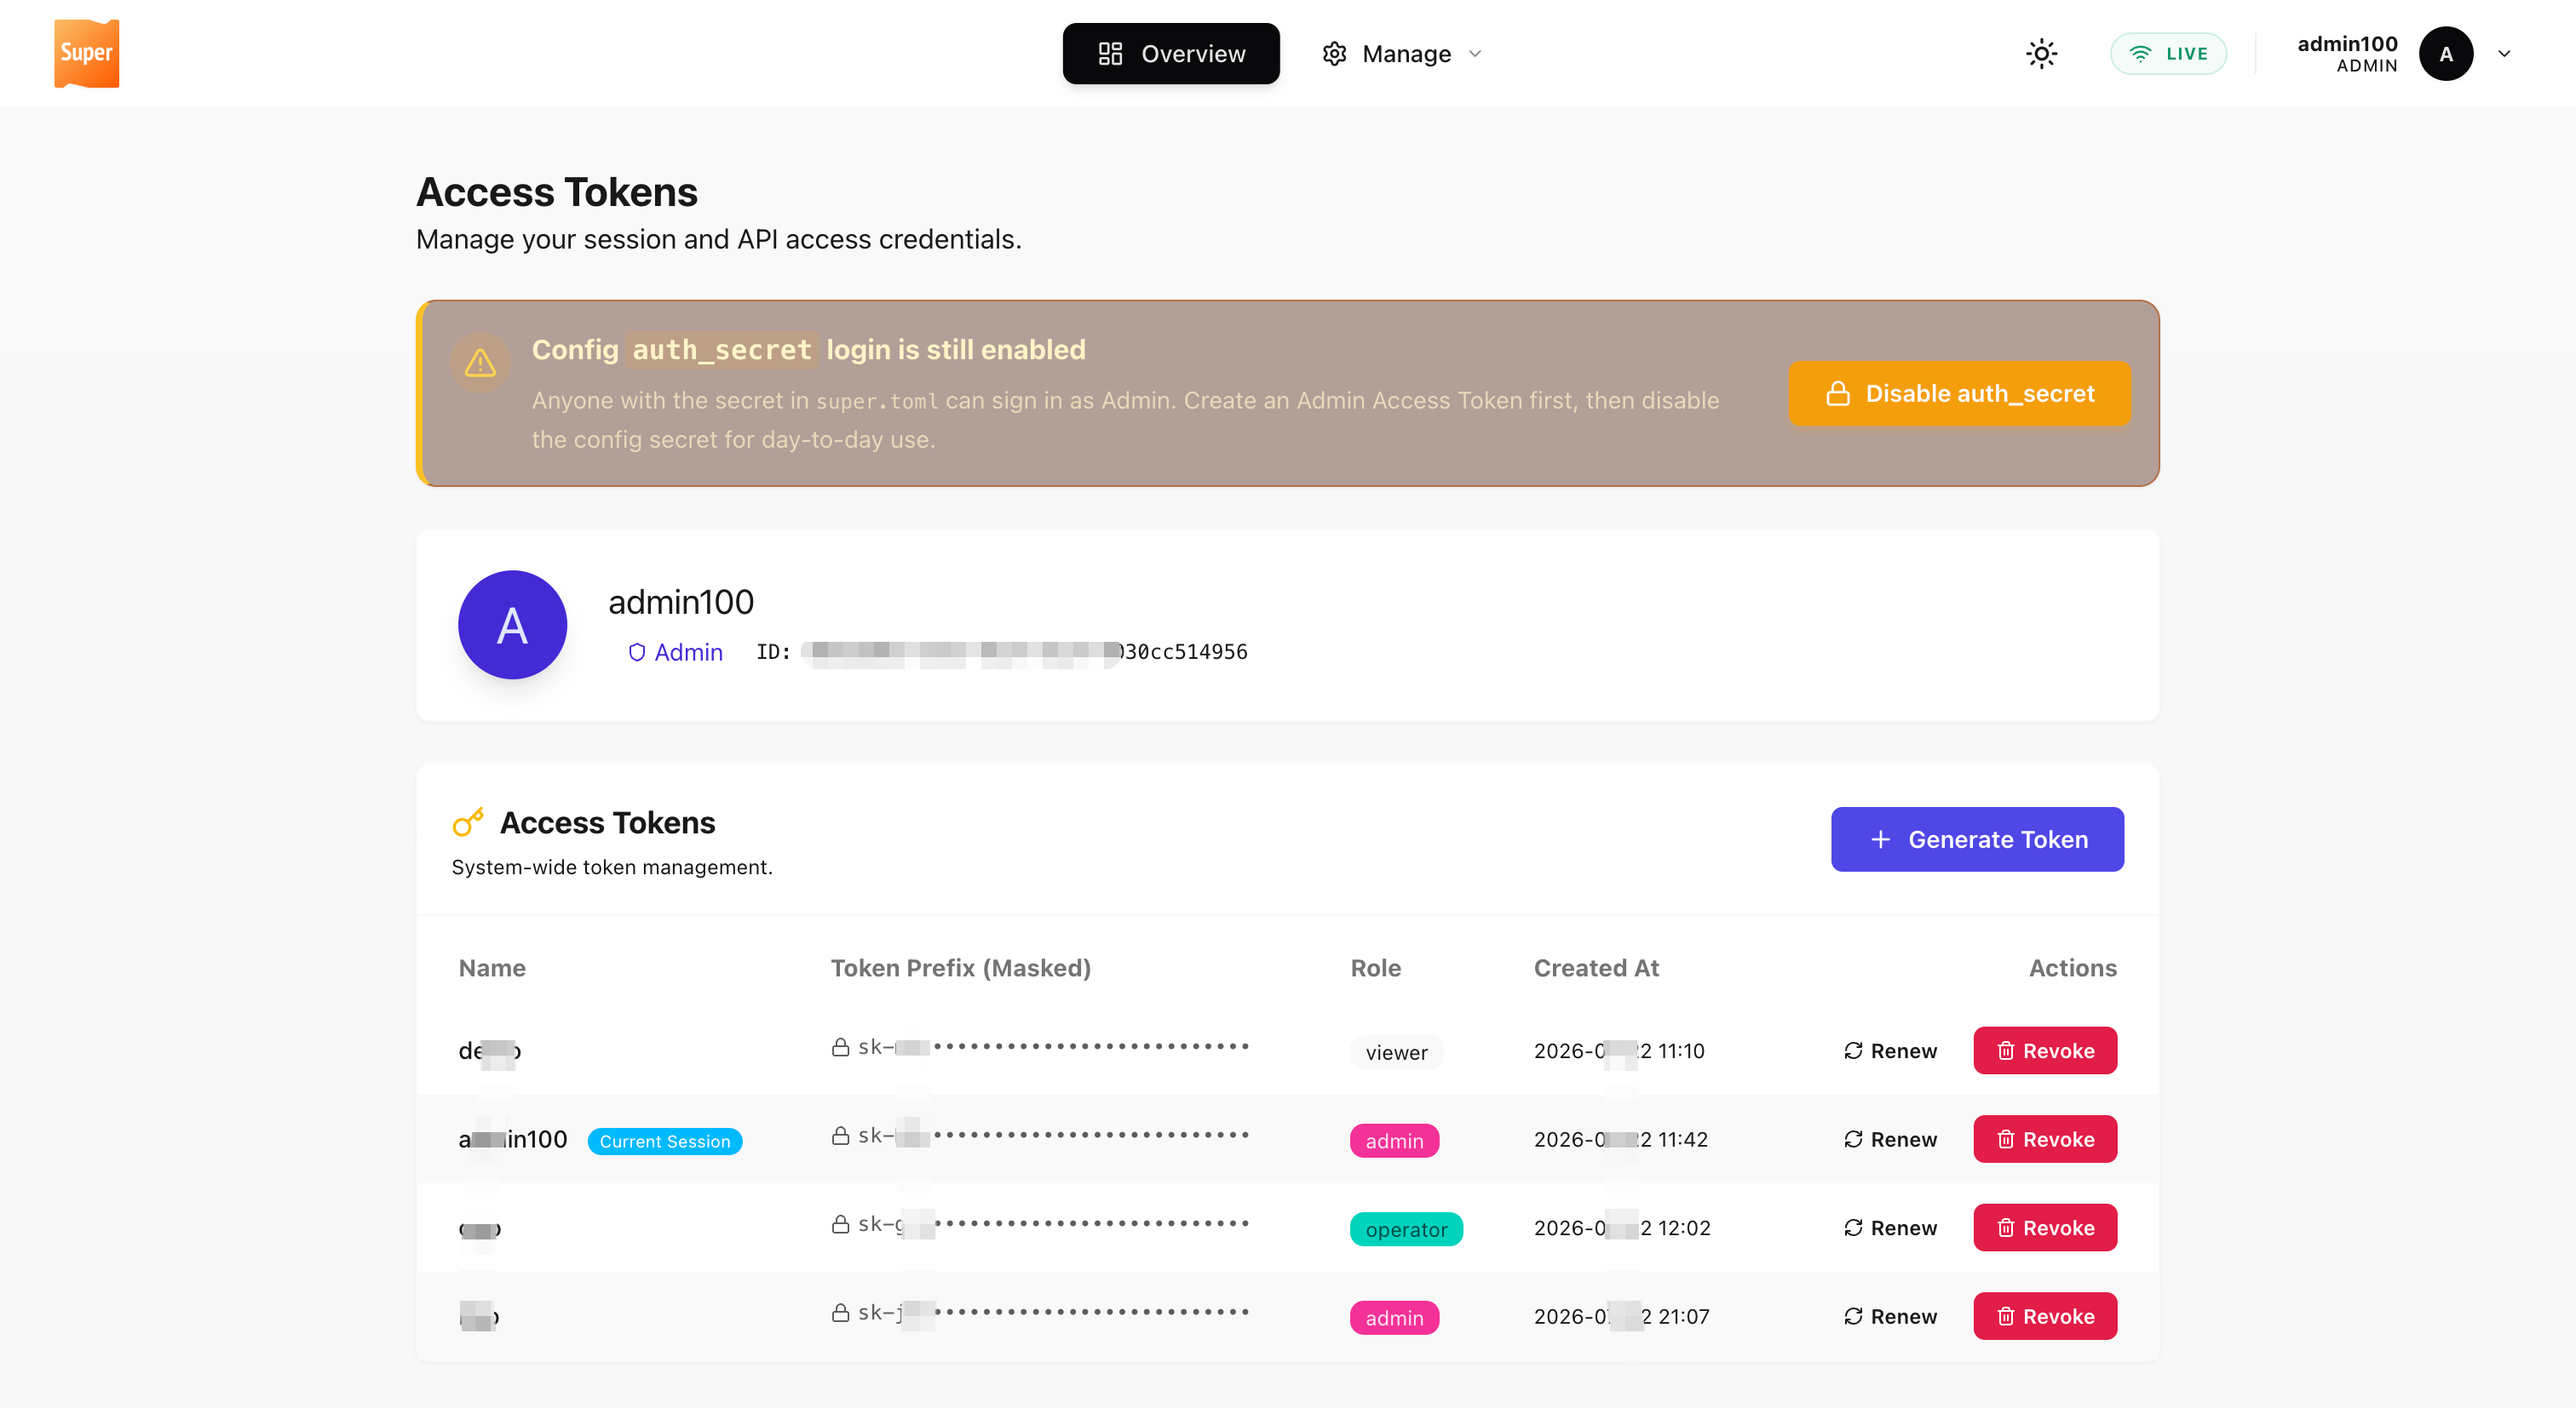
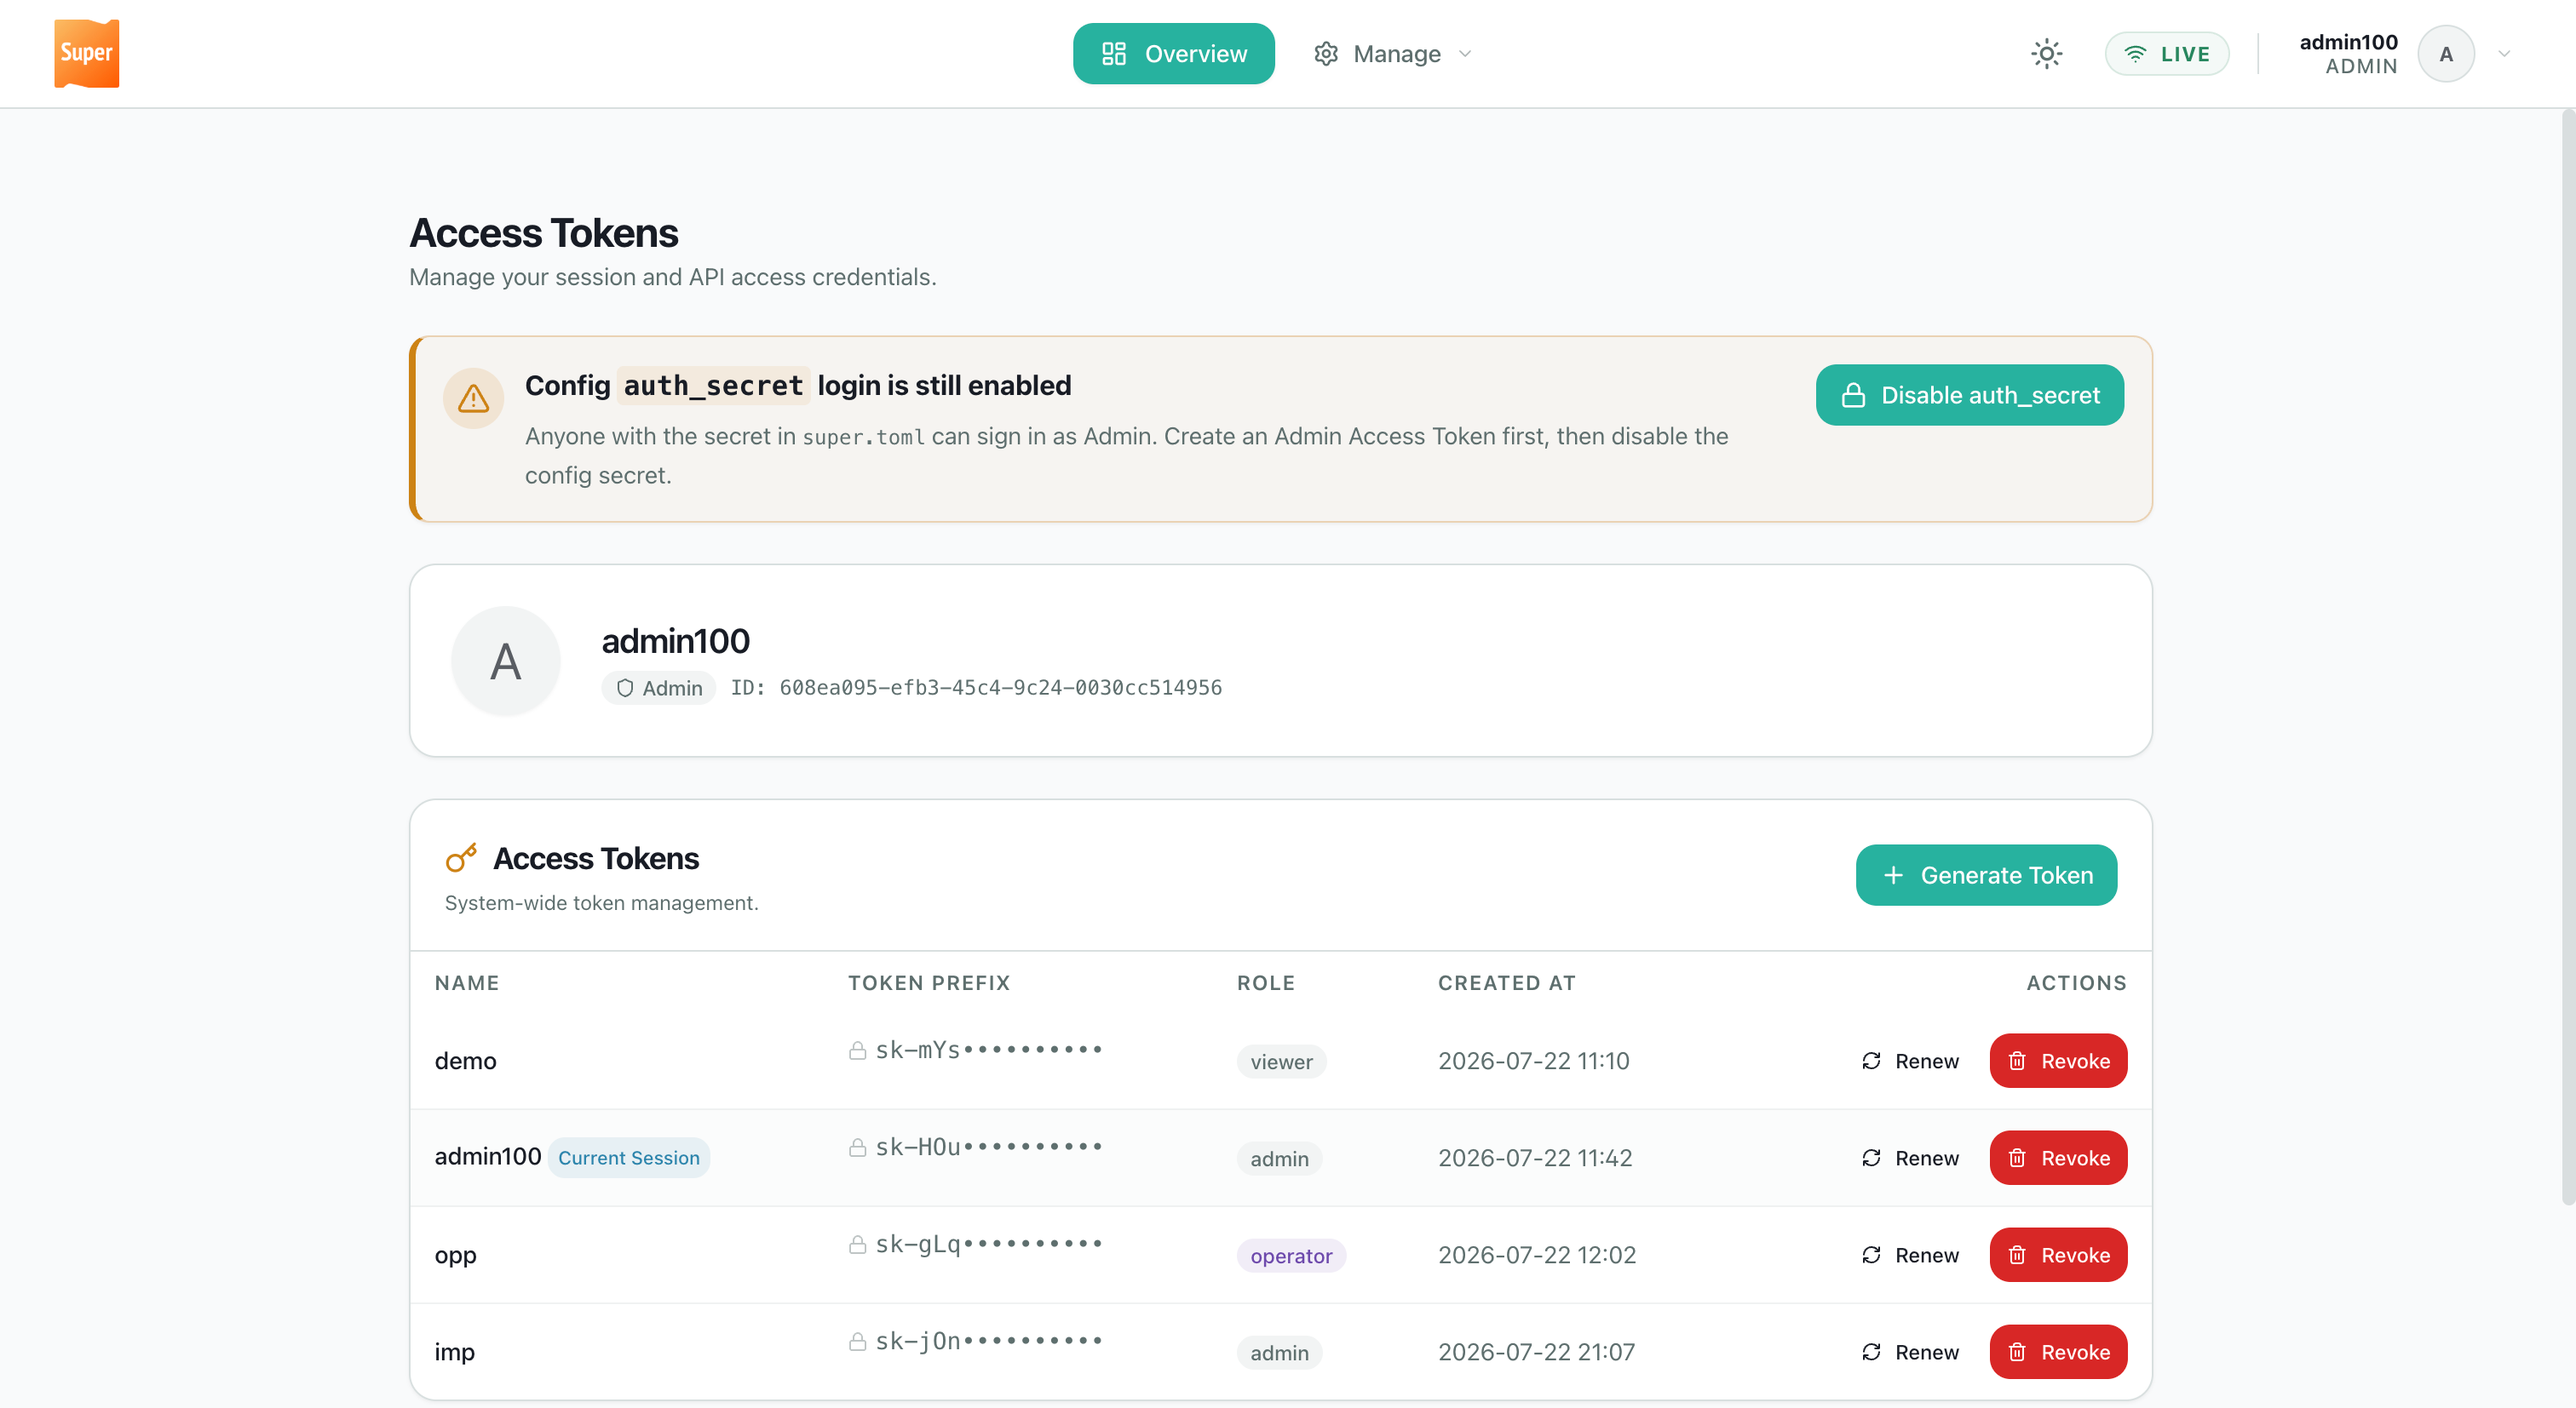
docs(web-ui): refresh dashboard tour screenshots
Align the Web UI page with current static images and document the
refresh under 1.2.3.

diff --git a/docs/content/docs/05-advanced-management/web-ui.md b/docs/content/docs/05-advanced-management/web-ui.md
@@ -33,43 +33,34 @@ Log in with an **Access Token** (`sk-…`) when the **`security`** plugin is ena
 
 ## Dashboard tour
 
-Screenshots below are from a licensed deployment. Use the tabs to browse each area — images are capped in width; **click to enlarge**.
+Screenshots below are from a licensed deployment (`docs/static/images/`). Use the tabs to browse each area — images are capped in width; **click to enlarge**.
 
 {{< tabs >}}
 
   {{< tab name="Overview" icon="view-grid" >}}
 Process list with host CPU/memory metrics (from the machine running **superd**), status filters, search, and topology view.
 
-{{< ui-screenshot src="/images/overview.png" alt="Dashboard overview — process list and host metrics" >}}
+{{< ui-screenshot src="/images/overview.png" alt="Dashboard overview — process list and host metrics" caption="Overview — programs, host metrics, filters" >}}
   {{< /tab >}}
 
   {{< tab name="Program detail" icon="cog" >}}
-Configuration drawer: command, hooks, health checks, resource limits, and environment for a selected program.
+Process detail drawer: actions, configuration (command, hooks, health checks, resource limits, environment).
 
-{{< ui-screenshot src="/images/program_config.png" alt="Program configuration drawer" >}}
+{{< ui-screenshot src="/images/program_config.png" alt="Program configuration in the detail drawer" caption="Program detail — Configuration" >}}
   {{< /tab >}}
 
   {{< tab name="Logs" icon="terminal" >}}
-Live stdout/stderr streaming from the process detail drawer.
+Live stdout/stderr streaming from the process detail drawer, plus file log history.
 
-{{< ui-screenshot src="/images/program_logtails.png" alt="Live program log tail" >}}
+{{< ui-screenshot src="/images/program_logtails.png" alt="Live program log tail in the detail drawer" caption="Program detail — Logs" >}}
   {{< /tab >}}
 
-  {{< tab name="Hot reload" icon="refresh" >}}
-Reload plugin or dashboard assets without a full daemon restart (development workflow).
-
-{{< ui-screenshot src="/images/reload_online.png" alt="Online reload controls" >}}
-  {{< /tab >}}
-
-  {{< tab name="Notifications" icon="bell" >}}
-Notification Settings when the **`notify`** plugin is licensed — two tabs:
-
-- **Webhooks** — destinations, triggers, and per-webhook Delivery Strategy
-- **Inhibition rules** — When → Mute targets → For (cross-event storm suppression)
+  {{< tab name="Inhibition rules" icon="bell" >}}
+**Notifications → Inhibition rules** when the **`notify`** plugin is licensed: When → Mute targets → For (cross-event storm suppression).
 
 See [Event notifications](/docs/05-advanced-management/event-notifications#storm-suppression).
 
-{{< ui-screenshot src="/images/notify.png" alt="Notification settings" >}}
+{{< ui-screenshot src="/images/notify_mute.png" alt="Notification settings — Inhibition rules tab" caption="Notifications — Inhibition rules" >}}
   {{< /tab >}}
 
 {{< /tabs >}}
@@ -86,10 +77,9 @@ Restart `superd` after updating plugins.
 | :--- | :--- |
 | **Overview** | Process counts, host metrics, filters, list/graph views |
 | **Program detail** | Config, hooks, health checks, live logs, start/stop/restart |
-| **Hot reload** | Reload plugins/dashboard without restarting `superd` |
 | **Notifications** | Webhooks + Inhibition rules (`notify` plugin) |
 
-The dashboard also includes create/edit forms, a [declarative stack editor](/docs/04-production-scenarios/delivery/declarative-stack), API token management, and a license page — not shown above.
+The dashboard also includes create/edit program forms, a [stack editor](/docs/04-production-scenarios/delivery/declarative-stack), API token management, and a license page — not shown above.
 
 ## Security
 

diff --git a/docs/content/docs/08-changelog/_index.md b/docs/content/docs/08-changelog/_index.md
@@ -16,6 +16,9 @@ and this project adheres to [Semantic Versioning](https://semver.org/spec/v2.0.0
 
 ## [1.2.3] - 2026-07-25
 
+### Changed
+- [Web UI](/docs/05-advanced-management/web-ui/): dashboard tour screenshots refreshed (overview, program detail/logs, inhibition rules).
+
 ### Notes
 - Pair OSS `1.2.3` with matching commercial plugin packages (`super-plugins-1.2.3-…`).
 
